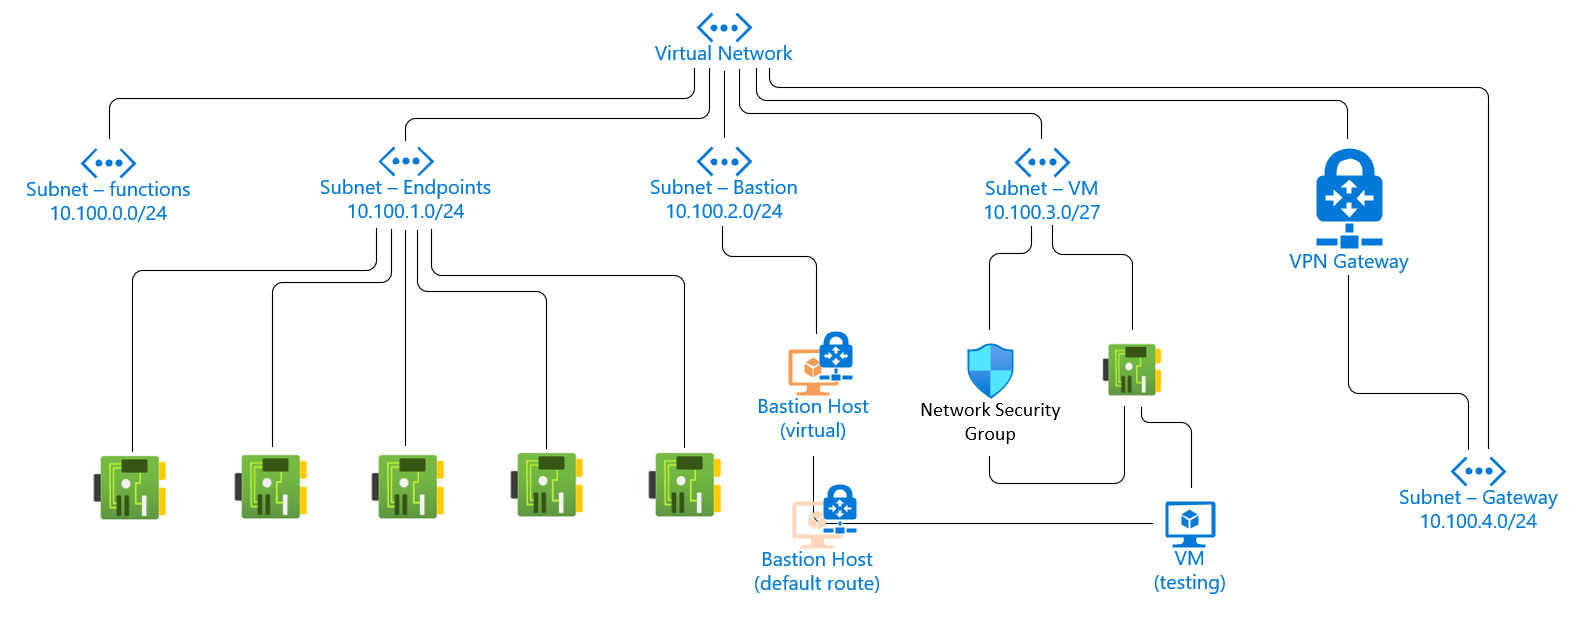
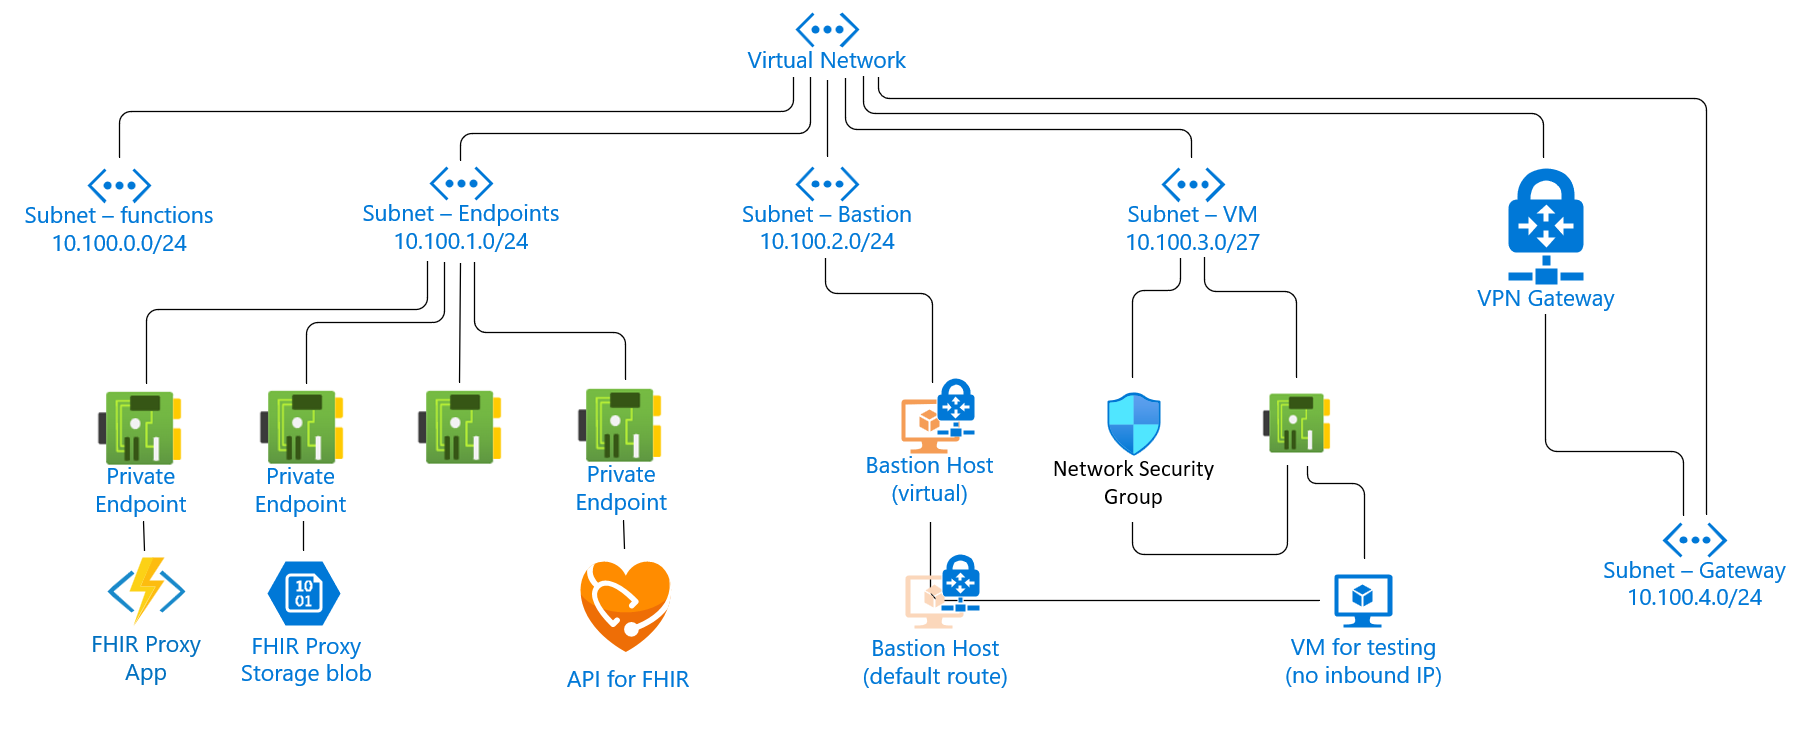
docs update

diff --git a/docs/private-endpoints.md b/docs/private-endpoints.md
@@ -54,57 +54,97 @@ Example using Postman on a VM connected via a Bastion Host.  Use these links for
 
 ![fhir-test1](./images/private-endpoints/test-fhir1.png)
 
-## Step 3.  Configure FHIR Proxy to work with the Virtual Network
-   
-Private link enables you to access Azure API for FHIR over a private endpoint, which is a network interface that connects you pr
+## Step 3.  Configure FHIR Proxy to work with the Virtual Network and Private Links
+Azure Functions offer multiple networking features across the hosting options. All the Azure Function networking options give customers some ability to access resources without using internet-routable addresses or to restrict internet access to a function app - see this **[link](https://docs.microsoft.com/en-us/azure/azure-functions/functions-networking-options)** for options. 
 
+**a) Virtual network integration**
+Virtual network integration gives your app access to resources in your virtual network, but it doesn't grant inbound private access to your app from the virtual network.  Virtual network integration is used only to make outbound calls from your app into your virtual network. The VNet integration feature behaves differently when it's used with virtual networks in the same region and with virtual networks in other regions.  [Read more](https://docs.microsoft.com/en-us/azure/azure-functions/functions-networking-options#virtual-network-integration)
+
+**[Enable VNet Integration](https://docs.microsoft.com/en-us/azure/azure-functions/functions-networking-options#enable-vnet-integration)**
+
+![vnet-integration](./images/private-endpoints/vnet-integration.png)
+   
+At this point the FHIR-Proxy acts as an application gateway, as it is the only external entry point to your FHIR Service.  
+  
+  
+**b) Private Endpoint Connections**
+When creating an inbound private endpoint connection for functions, you will also need a DNS record to resolve the private address. By default a private DNS record will be created for you when creating a private endpoint using the Azure portal.
+
+To learn more, see [using Private Endpoints for Web Apps](https://docs.microsoft.com/en-us/azure/app-service/networking/private-endpoint).
+
+
+**Tutorial:** Integrate Azure Functions with an Azure virtual network by using private endpoints. [link](https://docs.microsoft.com/en-us/azure/azure-functions/functions-create-vnet)
+
+**b-1)** Stop the FHIR Proxy App
+ 
+**b-2)** [Create the private endpoints for Azure Files Storage](https://docs.microsoft.com/en-us/azure/azure-functions/functions-create-vnet#lock-down-your-storage-account)
+
+![storage-private-endpoint](./images/private-endpoints/storage-private-endpoint.png)
+
+_Note: The private DNS update may fail due to dynamic IP's on the function_ - see sample error
+```json
+  {
+    "status": "Failed",
+    "error": {
+        "code": "InvalidPrivateDnsZoneIds",
+        "message": "Private Dns Zone group /subscriptions/###/resourceGroups/rg-fhir-dev-northcentralus-1432/providers/Microsoft.Network/privateEndpoints/pi-proxy4910-store/privateDnsZoneGroups/default has invalid private dns zone ids .",
+        "details": []
+    }
+}
+```
+To correct this customers must add the Storage Private endpoint to the Private DNS setup 
+
+**b-3)** Congirure Function App Settings  
+
+https://docs.microsoft.com/en-us/azure/azure-functions/functions-create-vnet#configure-your-function-app-settings
 
 ### Private Endpoint Application Configuration settings 
 
 [WEBSITE_CONTENTAZUREFILECONNECTIONSTRING](https://docs.microsoft.com/en-us/azure/azure-functions/functions-app-settings#website_contentazurefileconnectionstring) 
 Connection string for storage account where the function app code and configuration are stored in event-driven scaling plans running on Windows 
 
-[WEBSITE_CONTENTOVERVNET](https://docs.microsoft.com/en-us/azure/azure-functions/functions-app-settings#website_contentovervnet)
-A value of ```1``` enables your function app to scale when you have your storage account restricted to a virtual network. You should enable this setting when restricting your storage account to a virtual network. To learn more, see [Restrict your storage account to a virtual network](https://docs.microsoft.com/en-us/azure/azure-functions/configure-networking-how-to#restrict-your-storage-account-to-a-virtual-network).
-
 [WEBSITE_CONTENTSHARE](https://docs.microsoft.com/en-us/azure/azure-functions/functions-app-settings#website_contentshare)
 The file path to the function app code and configuration in an event-driven scaling plan on Windows. Used with ```WEBSITE_CONTENTAZUREFILECONNECTIONSTRING```. Default is a unique string that begins with the function app name
+
+[WEBSITE_CONTENTOVERVNET](https://docs.microsoft.com/en-us/azure/azure-functions/functions-app-settings#website_contentovervnet)
+A value of ```1``` enables your function app to scale when you have your storage account restricted to a virtual network. You should enable this setting when restricting your storage account to a virtual network. To learn more, see [Restrict your storage account to a virtual network](https://docs.microsoft.com/en-us/azure/azure-functions/configure-networking-how-to#restrict-your-storage-account-to-a-virtual-network).
 
 [WEBSITE_DNS_SERVER](https://docs.microsoft.com/en-us/azure/azure-functions/functions-app-settings#website_dns_server)
 Sets the DNS server used by an app when resolving IP addresses. This setting is often required when using certain networking functionality, such as [Azure DNS private zones](https://docs.microsoft.com/en-us/azure/azure-functions/functions-networking-options#azure-dns-private-zones) and [private endpoints](https://docs.microsoft.com/en-us/azure/azure-functions/functions-networking-options#restrict-your-storage-account-to-a-virtual-network).
 
+_Note:  the VNET_Route_All setting has been replaced with a switch in the VNET Configuration blade, however it can still be used in the Application Configuration_
+  
 [WEBSITE_VNET_ROUTE_ALL](https://docs.microsoft.com/en-us/azure/azure-functions/functions-app-settings#website_vnet_route_all)
 Indicates whether all outbound traffic from the app is routed through the virtual network. A setting value of 1 indicates that all traffic is routed through the virtual network. You need this setting when a [virtual network NAT gateway is used to define a static outbound IP address](https://docs.microsoft.com/en-us/azure/azure-functions/functions-how-to-use-nat-gateway).
+
+**b-5)** Start the FHIR Proxy App
+
+**b-6)** Configure the Function App Private Endpoint
+If you want to make calls to Private Endpoints, then you must make sure that your DNS lookups resolve to the private endpoint. You can enforce this behavior by integrating with the Azure DNS private zone setup with FHIR above. [link](https://docs.microsoft.com/en-us/azure/azure-functions/functions-networking-options#private-endpoints)
+
+![app-private-endpoint](./images/private-endpoints/proxy-app-private-endpoint.png)
+
+ 
+
+
+## References 
+
+Azure / Github Code Samples 
+
+Connect to private endpoints with Azure Functions
+https://docs.microsoft.com/en-us/samples/azure-samples/azure-functions-private-endpoints/connect-to-private-endpoints-with-azure-functions/ 
+
+Azure Functions, Private Endpoints, and NAT Gateway
+https://docs.microsoft.com/en-us/samples/azure-samples/non-http-trigger-azure-functions-premium-plan/non-http-trigger-azure-functions-premium-plan/ 
+  
 
 Application Configuration values loaded by this script 
 
 Name                                     | Value                      | Located              
------------------------------------------|----------------------------|--------------------
-APPINSIGHTS_INSTRUMENTATIONKEY           | GUID                       | App Service Config  
-APPINSIGHTS_CONNECTION_STRING            | InstrumentationKey         | App Service Config 
-AzureWebJobsStorage                      | Endpoint                   | App Service Config 
-FUNCTIONS_EXTENSION_VERSION              | Function Version           | App Service Config 
-FUNCTIONS_WORKER_RUNTIME                 | Function runtime           | App Service Config
-FP-REDISCONNECTION                       | RedisCache connection      | App Service Config
-FP-RBAC-CLIENT-ID                        | Client ID                  | Keyvault reference 
-FP-RBAC-CLIENT-SECRET                    | Client Secret              | Keyvault reference  
-FP-RBAC-NAME                             | Client Name                | Keyvault reference 
-FP-RBAC-TENANT-NAME                      | Tenant ID / Name           | Keyvault reference 
-FP-ADMIN-ROLE                            | Proxy Role Name            | App Service Config
-FP-PARTICIPANT-ACCESS                    | Proxy Role Name            | App Service Config
-FP-READER-ROLE                           | Proxy Role Name            | App Service Config
-FP-WRITER-ROLE                           | Proxy Role Name            | App Service Config
-FP-GLOBAL-ACCESS-ROLES                   | Proxy Role Name            | App Service Config
-FP-PATIENT-ACCESS-ROLES                  | Proxy Role Name            | App Service Config
-FP-PARTICIPANT-ACCESS-ROLES              | Proxy Role Name            | App Service Config
-FP-STORAGEACCT                           | Storage account connection | App Service Config
-FS-TENANT-NAME                           | FHIR Tenant ID / Name      | App Service Config
-FS-CLIENT-ID                             | FHIR Client ID             | Keyvault reference  
-FS-CLIENT-SECRET                         | FHIR Client Secret         | Keyvault reference  
-FS-RESOURCE                              | FHIR Resource              | Keyvault reference   
+-----------------------------------------|----------------------------|-------------------- 
 WEBSITE_CONTENTAZUREFILECONNECTIONSTRING | Storage Connection String  | App Service Config 
-WEBSITE_CONTENTOVERVNET                  | Fixed Value of 1 or 0      | App Service Config 
 WEBSITE_CONTENTSHARE                     | String value of File path  | App Service Config 
+WEBSITE_CONTENTOVERVNET                  | Fixed Value of 1 or 0      | App Service Config 
 WEBSITE_DNS_SERVER                       | IP Address of Private DNS  | App Service Config
 WEBSITE_VNET_ROUTE_ALL                   | Fixed Value of 1 or 0      | App Service Config 
 
